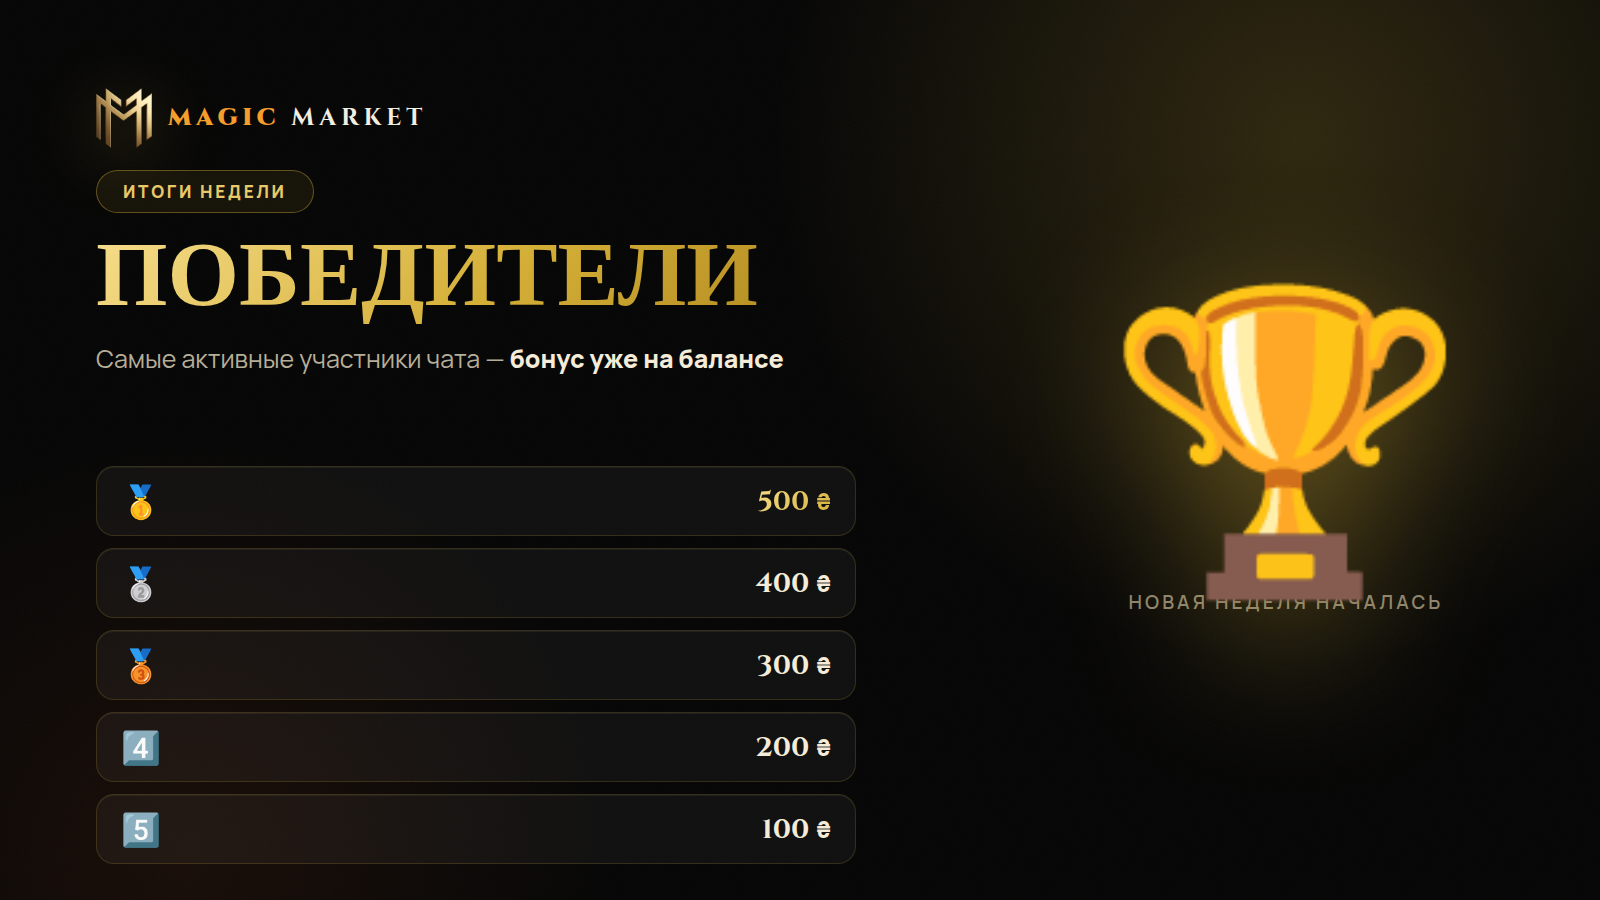
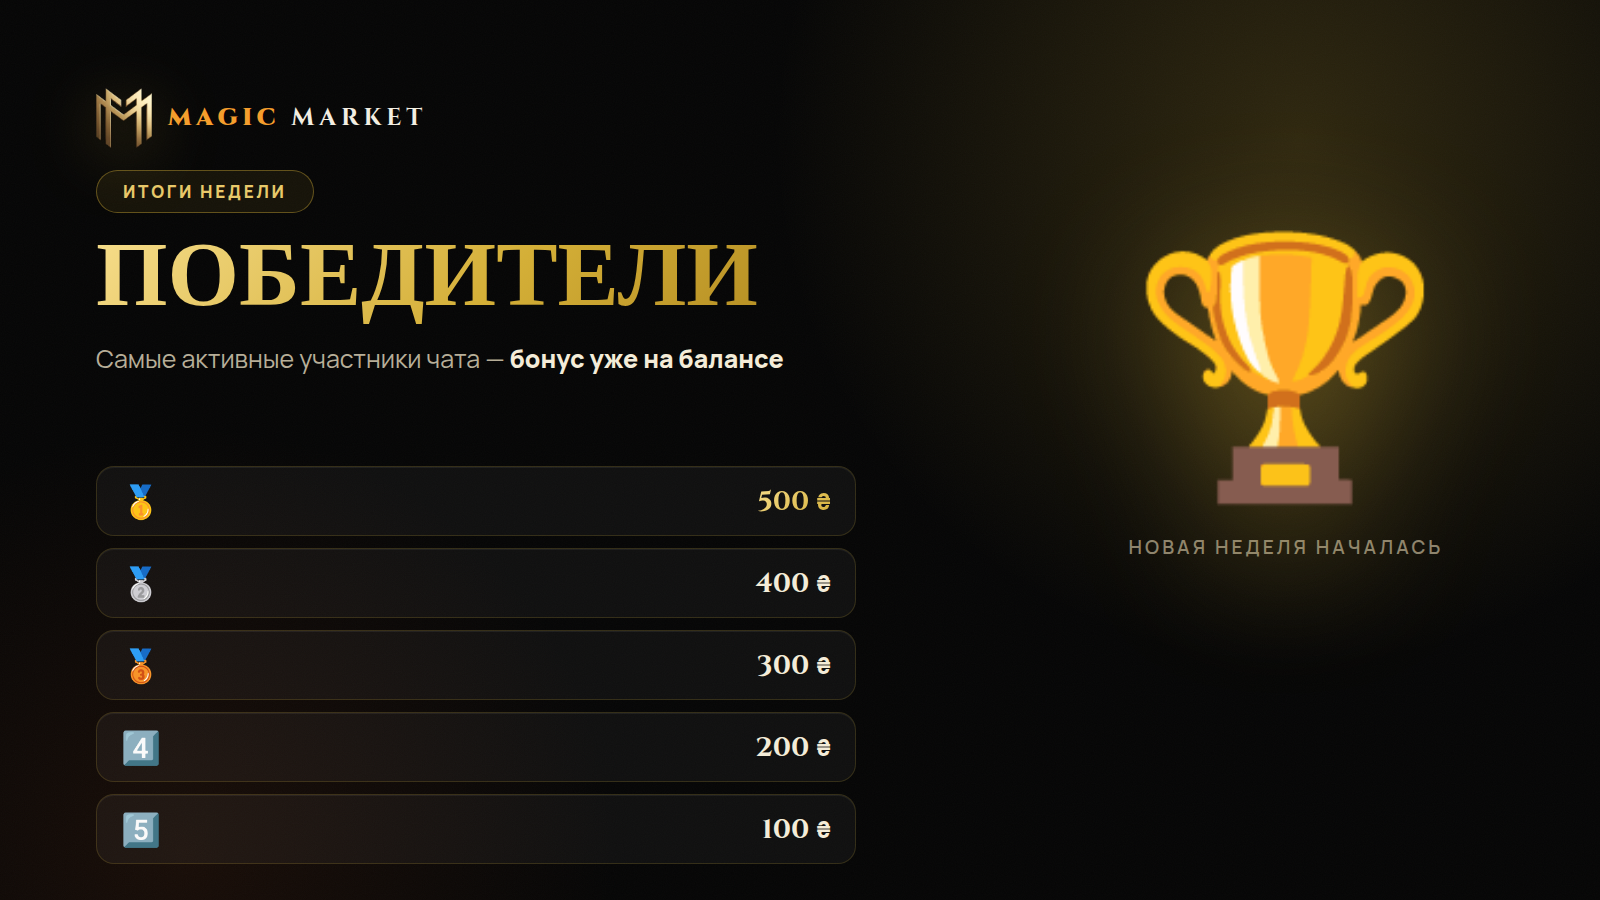
Баннер итогов: убрать наезд подписи на кубок (#151)
Текст «Новая неделя началась» налезал на подставку кубка. Кубок чуть меньше
(250px), блок поднят, отступ подписи увеличен — текст стоит чисто под кубком.

Claude-Session: https://claude.ai/code/session_01Y1zXFtLJnFv2zuHb58MY2K

Changed region(s): [[0.6875, 0.2489, 0.9062, 0.6844]]

diff --git a/promo/src/banner_award.html b/promo/src/banner_award.html
@@ -29,9 +29,9 @@ body{width:1600px;height:900px;overflow:hidden;position:relative;font-family:'Ma
 .cur{font-family:'Manrope',sans-serif;font-weight:800;font-size:.82em}  /* ₴ в засечках выглядит плохо */
 .row.first .s{background:linear-gradient(135deg,#f6dd8b,#d4af37);-webkit-background-clip:text;background-clip:text;color:transparent}
 
-.right{position:absolute;right:104px;top:50%;transform:translateY(-50%);text-align:center;width:420px}
-.cup{font-size:290px;line-height:1;filter:drop-shadow(0 34px 74px rgba(212,175,55,.45))}
-.right small{display:block;font-size:19px;color:#8d846f;font-weight:600;letter-spacing:.16em;text-transform:uppercase;margin-top:14px}
+.right{position:absolute;right:104px;top:44%;transform:translateY(-50%);text-align:center;width:420px}
+.cup{font-size:250px;line-height:1;filter:drop-shadow(0 34px 74px rgba(212,175,55,.45))}
+.right small{display:block;font-size:19px;color:#8d846f;font-weight:600;letter-spacing:.16em;text-transform:uppercase;margin-top:52px}
 </style></head><body>
 <div class="orb1"></div><div class="orb2"></div><div class="grain"></div>
 
